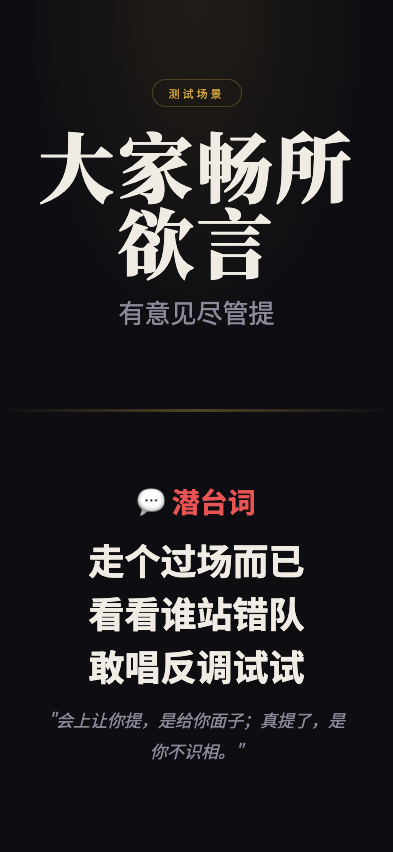
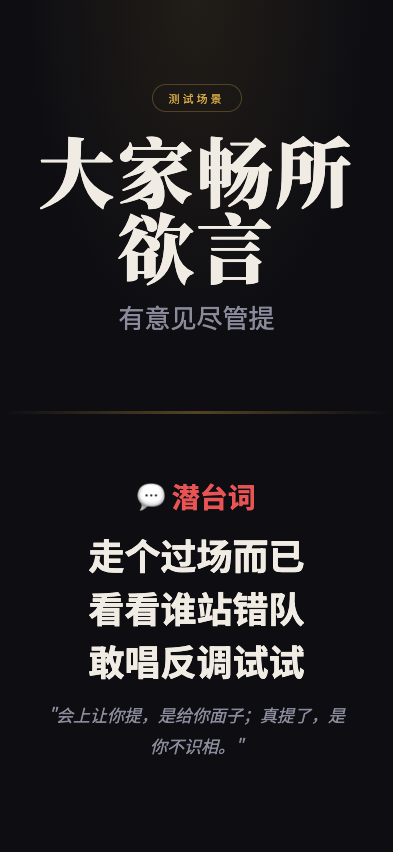
feat: 职场生存法则 screenshot - test-layout-v1

diff --git a/wuliao-tools/tools/biz-speak/scenes/test-layout-v1.html b/wuliao-tools/tools/biz-speak/scenes/test-layout-v1.html
@@ -27,12 +27,12 @@
     background:radial-gradient(ellipse at 50% 0%, rgba(212,168,67,0.1) 0%, transparent 65%);
     pointer-events:none; z-index:0;
   }
-  .top { flex:1; display:flex; flex-direction:column; align-items:center; justify-content:center; padding:16px 28px; position:relative; z-index:1; }
+  .top { flex:1; display:flex; flex-direction:column; align-items:center; justify-content:center; padding:16px 28px 8px; position:relative; z-index:1; }
   .tag { font-size:11px; letter-spacing:3px; color:var(--gold); border:1px solid rgba(212,168,67,0.3); padding:5px 16px; border-radius:50px; margin-bottom:20px; }
   .main-title { font-family:'Noto Serif SC'; font-size:76px; font-weight:900; text-align:center; line-height:1.0; letter-spacing:3px; }
   .sub-title { font-size:26px; color:var(--text-dim); text-align:center; margin-top:14px; }
   .divider { width:100%; height:3px; background:linear-gradient(90deg,transparent,var(--gold),transparent); opacity:0.35; flex-shrink:0; position:relative; z-index:1; }
-  .bottom { flex:1; display:flex; flex-direction:column; align-items:center; justify-content:center; padding:24px 28px 40px; position:relative; z-index:1; }
+  .bottom { flex:1; display:flex; flex-direction:column; align-items:center; justify-content:center; padding:12px 28px 40px; position:relative; z-index:1; }
   .truth-label { font-size:28px; font-weight:700; color:var(--red); display:flex; align-items:center; gap:10px; margin-bottom:16px; }
   .truth-lines { display:flex; flex-direction:column; align-items:center; gap:10px; }
   .truth-line { font-size:36px; font-weight:700; color:var(--text); text-align:center; line-height:1.2; }
